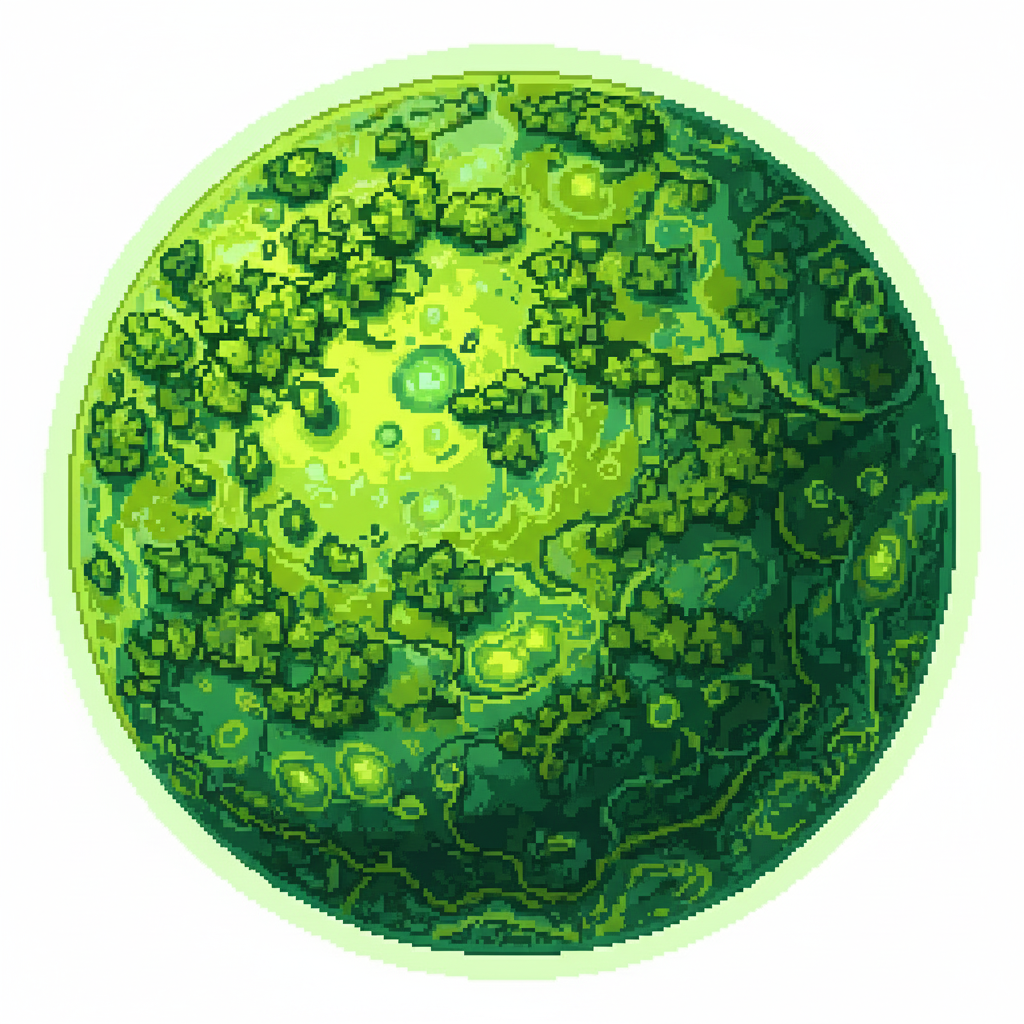
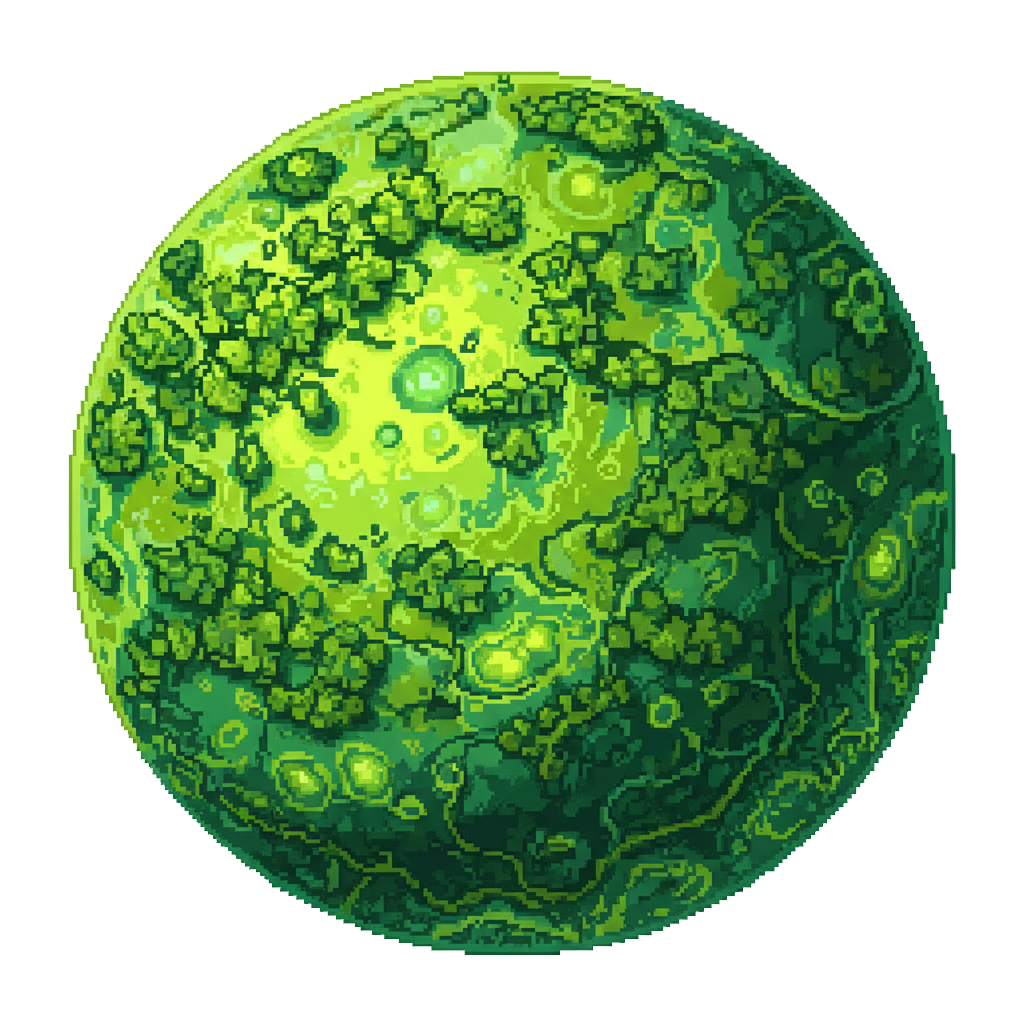
Ajustes

Changed region(s): [[0.0312, 0.0312, 0.9688, 0.9688]]

diff --git a/game/core/render_config.py b/game/core/render_config.py
@@ -4,9 +4,9 @@ class RenderConfig:
     # Celestial Manager configurations
     CELESTIAL_NUM_BODIES = 2
     CELESTIAL_SCALE_MIN = 0.1
-    CELESTIAL_SCALE_MAX = 0.6
+    CELESTIAL_SCALE_MAX = 0.4
     CELESTIAL_ALPHA_MIN = 50
-    CELESTIAL_ALPHA_MAX = 255
+    CELESTIAL_ALPHA_MAX = 200
     CELESTIAL_SPEED_BASE_MIN = 50
     CELESTIAL_SPEED_BASE_MAX = 150
     CELESTIAL_SPEED_OFFSET = 20
